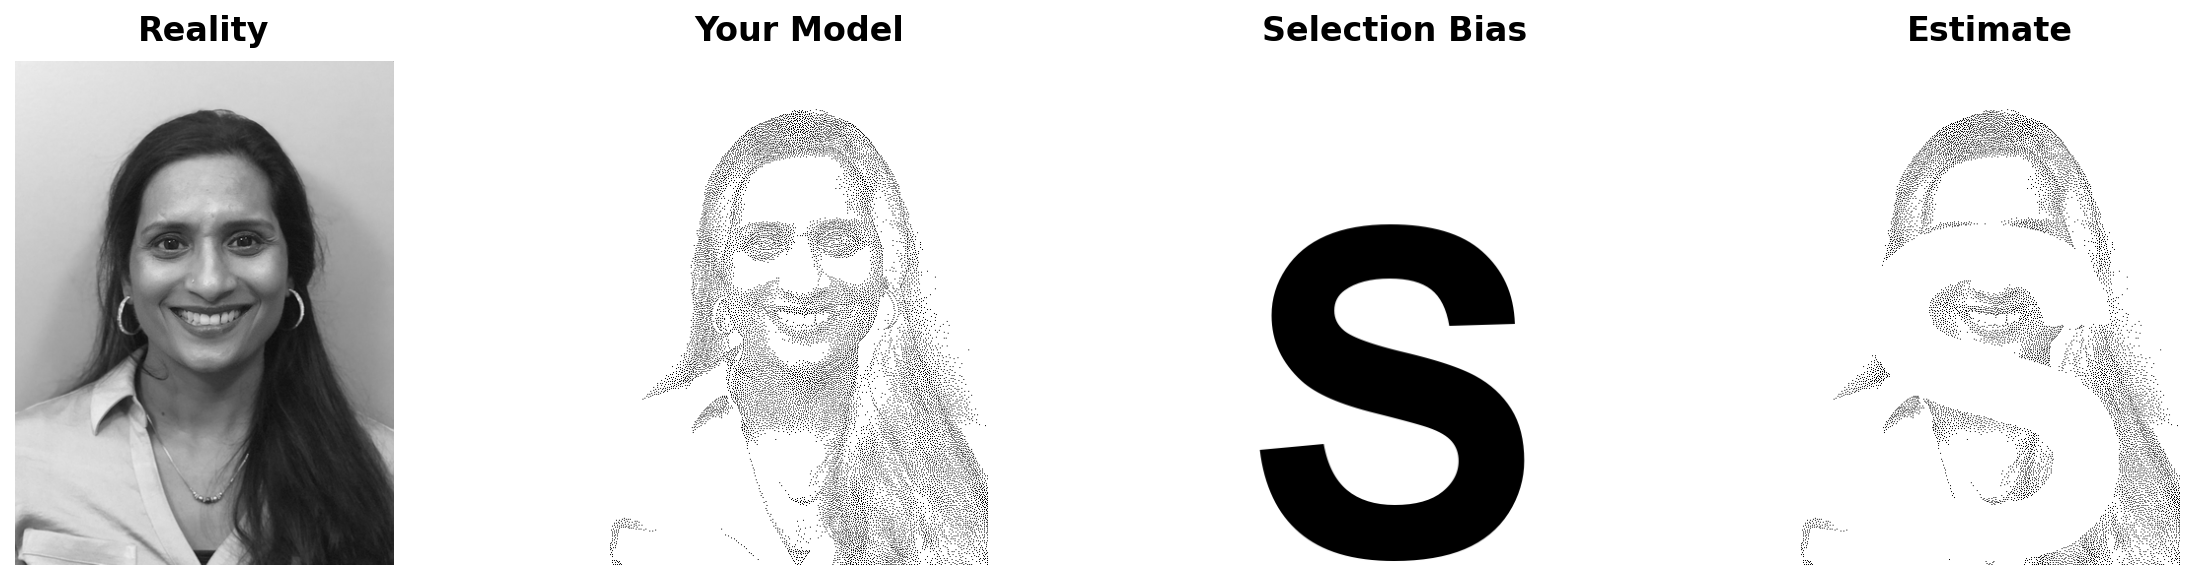
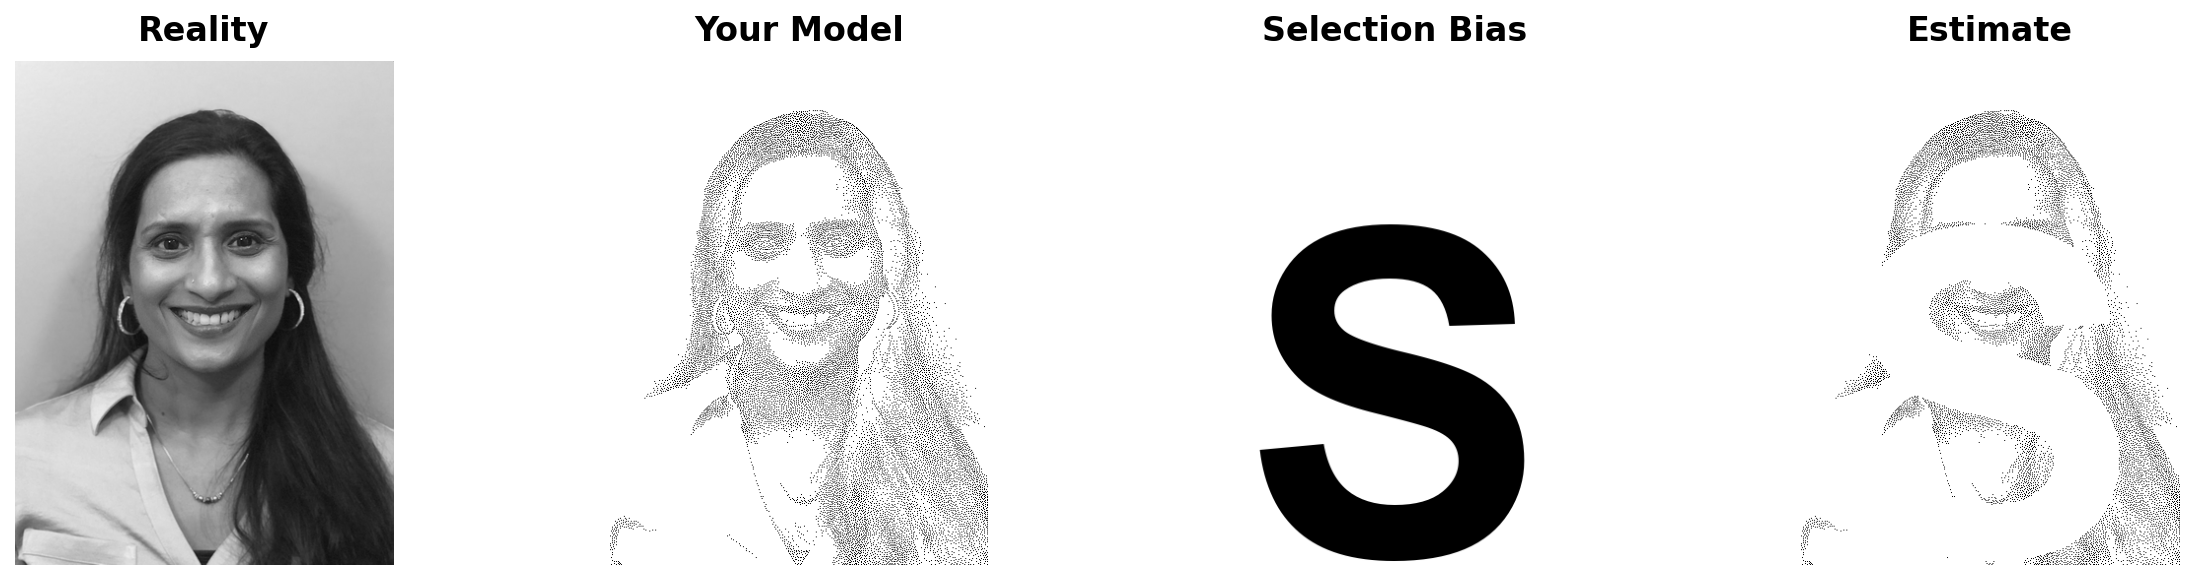
update figsize

diff --git a/index.html b/index.html
@@ -71,7 +71,7 @@ ul.task-list li input[type="checkbox"] {
 <div class="cell-output cell-output-display">
 <div id="final-meme" class="quarto-figure quarto-figure-center anchored">
 <figure class="figure">
-<p><img src="index_files/figure-html/final-meme-output-1.png" width="1363" height="374" class="figure-img"></p>
+<p><img src="index_files/figure-html/final-meme-output-1.png" width="758" height="215" class="figure-img"></p>
 <figcaption>Statistics meme demonstrating selection bias</figcaption>
 </figure>
 </div>
